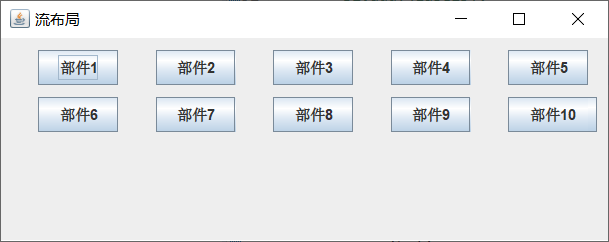
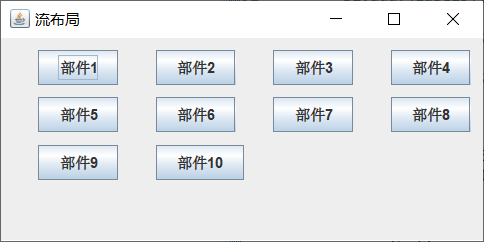
Site updated: 2019-11-03 21:28:32

diff --git a/index.html b/index.html
@@ -189,9 +189,9 @@
 </ol>
 <hr>
 <p>其中align表示每一行的对齐方式 ：align=0，表示左对齐，align=1，表示中间对齐，align=2，表示右对齐； horizGap,vertGap分别表示组件之间的水平间隔和垂直间隔。看下面例子：</p>
-<figure class="highlight plain"><table><tr><td class="gutter"><pre><span class="line">1</span><br><span class="line">2</span><br><span class="line">3</span><br><span class="line">4</span><br><span class="line">5</span><br><span class="line">6</span><br><span class="line">7</span><br><span class="line">8</span><br><span class="line">9</span><br><span class="line">10</span><br><span class="line">11</span><br><span class="line">12</span><br><span class="line">13</span><br><span class="line">14</span><br><span class="line">15</span><br><span class="line">16</span><br><span class="line">17</span><br><span class="line">18</span><br><span class="line">19</span><br><span class="line">20</span><br><span class="line">21</span><br><span class="line">22</span><br><span class="line">23</span><br><span class="line">24</span><br><span class="line">25</span><br></pre></td><td class="code"><pre><span class="line">import java.awt.*;</span><br><span class="line"></span><br><span class="line">import javax.swing.*;</span><br><span class="line"></span><br><span class="line">public class Jig extends JFrame&#123;</span><br><span class="line">	public void create(String title) &#123;</span><br><span class="line">		JFrame jf=new JFrame();</span><br><span class="line">		Container  c=jf.getContentPane();</span><br><span class="line">		JPanel p1=new JPanel();</span><br><span class="line">		for(int i=0;i&lt;10;i++) &#123;</span><br><span class="line">			p1.add(new JButton(&quot;部件&quot;+(i+1)));</span><br><span class="line">			</span><br><span class="line">		&#125;   </span><br><span class="line">		c.add(p1);</span><br><span class="line">		jf.setTitle(title);</span><br><span class="line">		p1.setLayout(new FlowLayout(0,30, 10));      //①  设置为左对齐，部件之间的水平距离30，垂直距离都为10    </span><br><span class="line">		jf.setBounds(200, 200, 500, 200);</span><br><span class="line">		jf.setVisible(true);</span><br><span class="line">		jf.setDefaultCloseOperation(WindowConstants.EXIT_ON_CLOSE);</span><br><span class="line">	&#125;</span><br><span class="line">	</span><br><span class="line">	public static void main(String[] args) &#123;</span><br><span class="line">			new Jig().create(&quot;流布局&quot;);</span><br><span class="line">	&#125;</span><br><span class="line">&#125;</span><br></pre></td></tr></table></figure>
+<figure class="highlight plain"><table><tr><td class="gutter"><pre><span class="line">1</span><br><span class="line">2</span><br><span class="line">3</span><br><span class="line">4</span><br><span class="line">5</span><br><span class="line">6</span><br><span class="line">7</span><br><span class="line">8</span><br><span class="line">9</span><br><span class="line">10</span><br><span class="line">11</span><br><span class="line">12</span><br><span class="line">13</span><br><span class="line">14</span><br><span class="line">15</span><br><span class="line">16</span><br><span class="line">17</span><br><span class="line">18</span><br><span class="line">19</span><br><span class="line">20</span><br><span class="line">21</span><br><span class="line">22</span><br><span class="line">23</span><br><span class="line">24</span><br><span class="line">25</span><br></pre></td><td class="code"><pre><span class="line">import java.awt.*;</span><br><span class="line"></span><br><span class="line">import javax.swing.*;</span><br><span class="line"></span><br><span class="line">public class Jig extends JFrame&#123;</span><br><span class="line">	public void create(String title) &#123;</span><br><span class="line">		JFrame jf=new JFrame();</span><br><span class="line">		Container  c=jf.getContentPane();</span><br><span class="line">		JPanel p1=new JPanel();</span><br><span class="line">		for(int i=0;i&lt;10;i++) &#123;</span><br><span class="line">			p1.add(new JButton(&quot;部件&quot;+(i+1)));</span><br><span class="line">			</span><br><span class="line">		&#125;   </span><br><span class="line">		c.add(p1);</span><br><span class="line">		jf.setTitle(title);</span><br><span class="line">		p1.setLayout(new FlowLayout(0,30, 10));      //①  设置为左对齐，部件之间的水平距离30，垂直距离都为10    </span><br><span class="line">		jf.setBounds(200, 200, 400, 200);</span><br><span class="line">		jf.setVisible(true);</span><br><span class="line">		jf.setDefaultCloseOperation(WindowConstants.EXIT_ON_CLOSE);</span><br><span class="line">	&#125;</span><br><span class="line">	</span><br><span class="line">	public static void main(String[] args) &#123;</span><br><span class="line">			new Jig().create(&quot;流布局&quot;);</span><br><span class="line">	&#125;</span><br><span class="line">&#125;</span><br></pre></td></tr></table></figure>
 
-<p>运行结果如下：<br><img src="/2019/11/03/java的swing布局（二）流布局/1.PNG" alt="最终界面"><br>当你随意调整页面大小时会发现，总是优先从左边开始填充<br>如果采用默认的方式 也就是说 ① 行改为<font color="green"> p1.setLayout(new FlowLayout()); </font> ,则默认以中间对齐，效果如下：<br><img src="/2019/11/03/java的swing布局（二）流布局/2.PNG" alt="最终界面"></p>
+<p>运行结果如下：<br><img src="/2019/11/03/java的swing布局（二）流布局/1.PNG" alt="最终界面"><br>当你随意调整页面大小时会发现，总是优先从左边开始填充<br>如果采用默认的方式 也就是说 ① 行改为<font color="green"> p1.setLayout(new FlowLayout()); </font> ,则默认以中间对齐，横向拉伸后效果如下：<br><img src="/2019/11/03/java的swing布局（二）流布局/2.PNG" alt="最终界面"></p>
 
       
 
@@ -255,7 +255,7 @@
     <div class="article-entry" itemprop="articleBody">
       
         <p>这几天学Java的swing编程，对关于swing的几个较为常用的布局进行讨论<br>先是第一个绝对布局，在看代码之前先要知道setbounds(x,y,width,height)的定义。在四个参数中：x,y是部件开始位置,width,height是部件的宽和高，再看代码：</p>
-<figure class="highlight plain"><table><tr><td class="gutter"><pre><span class="line">1</span><br><span class="line">2</span><br><span class="line">3</span><br><span class="line">4</span><br><span class="line">5</span><br><span class="line">6</span><br><span class="line">7</span><br><span class="line">8</span><br><span class="line">9</span><br><span class="line">10</span><br><span class="line">11</span><br><span class="line">12</span><br><span class="line">13</span><br><span class="line">14</span><br><span class="line">15</span><br><span class="line">16</span><br><span class="line">17</span><br><span class="line">18</span><br><span class="line">19</span><br><span class="line">20</span><br><span class="line">21</span><br><span class="line">22</span><br><span class="line">23</span><br><span class="line">24</span><br><span class="line">25</span><br><span class="line">26</span><br><span class="line">27</span><br><span class="line">28</span><br><span class="line">29</span><br><span class="line">30</span><br><span class="line">31</span><br><span class="line">32</span><br><span class="line">33</span><br><span class="line">34</span><br><span class="line">35</span><br><span class="line">36</span><br><span class="line">37</span><br><span class="line">38</span><br><span class="line">39</span><br><span class="line">40</span><br><span class="line">41</span><br><span class="line">42</span><br><span class="line">43</span><br><span class="line">44</span><br><span class="line">45</span><br><span class="line">46</span><br><span class="line">47</span><br><span class="line">48</span><br><span class="line">49</span><br><span class="line">50</span><br><span class="line">51</span><br><span class="line">52</span><br><span class="line">53</span><br><span class="line">54</span><br><span class="line">55</span><br><span class="line">56</span><br><span class="line">57</span><br><span class="line">58</span><br><span class="line">59</span><br><span class="line">60</span><br><span class="line">61</span><br><span class="line">62</span><br><span class="line">63</span><br><span class="line">64</span><br><span class="line">65</span><br><span class="line">66</span><br><span class="line">67</span><br><span class="line">68</span><br></pre></td><td class="code"><pre><span class="line">import java.awt.*;</span><br><span class="line"></span><br><span class="line">import javax.swing.*;</span><br><span class="line"></span><br><span class="line">public class Pig extends JFrame&#123;</span><br><span class="line">	public void create(String title) &#123;</span><br><span class="line">		JFrame jf=new JFrame();</span><br><span class="line">		Container  c=jf.getContentPane();</span><br><span class="line">		JPanel p1=new JPanel();       </span><br><span class="line">		p1.setLayout(null);                       //这里必须设置setlayout布局为null，不然会被编译器自动赋为Flowlayout(流布局),而不是绝对布局。</span><br><span class="line">		JLabel jLabel1=new JLabel(&quot;员工编号：&quot;);   </span><br><span class="line">		jLabel1.setBounds(0,0,60,40);      //横向从0开始，纵向从0开始，设置宽为60，高为40</span><br><span class="line">		</span><br><span class="line">		JTextField jT1=new JTextField();</span><br><span class="line">		jT1.setBounds(60, 0,180,40);		//横向跟着第一个的后面(60),纵向还是从0开始，设置宽为180，高为40</span><br><span class="line">		</span><br><span class="line">		JLabel jLabel2=new JLabel(&quot;借用器具：&quot;);</span><br><span class="line">		jLabel2.setBounds(260,0,60,40);</span><br><span class="line">		</span><br><span class="line">		JTextField jT2=new JTextField();</span><br><span class="line">		jT2.setBounds(320, 0,180,40);</span><br><span class="line">		</span><br><span class="line">		JLabel jLabel3=new JLabel(&quot;借用日期：&quot;);     </span><br><span class="line">		jLabel3.setBounds(0,40,60,40);    //横向从0开始，纵向从40开始（第二行，因为第一行高度是40），设置宽为60，高为40</span><br><span class="line">		</span><br><span class="line">		JTextField jT3=new JTextField();</span><br><span class="line">		jT3.setBounds(60, 40,180,40);</span><br><span class="line">		</span><br><span class="line">		JLabel jLabel4=new JLabel(&quot;归还日期：&quot;);</span><br><span class="line">		jLabel4.setBounds(260,40,60,40);</span><br><span class="line">		</span><br><span class="line">		JTextField jT4=new JTextField();</span><br><span class="line">		jT4.setBounds(320, 40,180,40);</span><br><span class="line"></span><br><span class="line">		JLabel jLabel5=new JLabel(&quot;借用原因:&quot;);</span><br><span class="line">		jLabel5.setBounds(0,80,60,40);</span><br><span class="line"></span><br><span class="line">		JTextField jT5=new JTextField();</span><br><span class="line">		jT5.setBounds(60, 80,440,40);</span><br><span class="line"></span><br><span class="line">		JButton jb1=new JButton(&quot;确定&quot;);     </span><br><span class="line">		jb1.setBounds(0,120,250,40);        //横向从0开始，纵向从120开始（第四行，因为每一行高度是40），设置宽为250，高为40</span><br><span class="line">		</span><br><span class="line">		JButton jb2=new JButton(&quot;取消&quot;); </span><br><span class="line">		jb2.setBounds(250,120,250,40);</span><br><span class="line">		</span><br><span class="line">		p1.add(jLabel1);</span><br><span class="line">		p1.add(jT1);</span><br><span class="line">		p1.add(jLabel2);</span><br><span class="line">		p1.add(jT2);</span><br><span class="line">		p1.add(jLabel3);</span><br><span class="line">		p1.add(jT3);</span><br><span class="line">		p1.add(jLabel4);</span><br><span class="line">		p1.add(jT4);</span><br><span class="line">		p1.add(jLabel5);</span><br><span class="line">		p1.add(jT5);  </span><br><span class="line">		p1.add(jb1);</span><br><span class="line">		p1.add(jb2);   </span><br><span class="line">		c.add(p1);</span><br><span class="line">		jf.setTitle(title);</span><br><span class="line">		jf.setBounds(200, 200, 500, 200);</span><br><span class="line">		jf.setVisible(true);</span><br><span class="line">		jf.setDefaultCloseOperation(WindowConstants.EXIT_ON_CLOSE);</span><br><span class="line">	&#125;</span><br><span class="line">	public static void main(String[] args) &#123;</span><br><span class="line">			new Pig().create(&quot;绝对布局&quot;);</span><br><span class="line">	&#125;</span><br><span class="line">&#125;</span><br></pre></td></tr></table></figure>
+<figure class="highlight plain"><table><tr><td class="gutter"><pre><span class="line">1</span><br><span class="line">2</span><br><span class="line">3</span><br><span class="line">4</span><br><span class="line">5</span><br><span class="line">6</span><br><span class="line">7</span><br><span class="line">8</span><br><span class="line">9</span><br><span class="line">10</span><br><span class="line">11</span><br><span class="line">12</span><br><span class="line">13</span><br><span class="line">14</span><br><span class="line">15</span><br><span class="line">16</span><br><span class="line">17</span><br><span class="line">18</span><br><span class="line">19</span><br><span class="line">20</span><br><span class="line">21</span><br><span class="line">22</span><br><span class="line">23</span><br><span class="line">24</span><br><span class="line">25</span><br><span class="line">26</span><br><span class="line">27</span><br><span class="line">28</span><br><span class="line">29</span><br><span class="line">30</span><br><span class="line">31</span><br><span class="line">32</span><br><span class="line">33</span><br><span class="line">34</span><br><span class="line">35</span><br><span class="line">36</span><br><span class="line">37</span><br><span class="line">38</span><br><span class="line">39</span><br><span class="line">40</span><br><span class="line">41</span><br><span class="line">42</span><br><span class="line">43</span><br><span class="line">44</span><br><span class="line">45</span><br><span class="line">46</span><br><span class="line">47</span><br><span class="line">48</span><br><span class="line">49</span><br><span class="line">50</span><br><span class="line">51</span><br><span class="line">52</span><br><span class="line">53</span><br><span class="line">54</span><br><span class="line">55</span><br><span class="line">56</span><br><span class="line">57</span><br><span class="line">58</span><br><span class="line">59</span><br><span class="line">60</span><br><span class="line">61</span><br><span class="line">62</span><br><span class="line">63</span><br><span class="line">64</span><br><span class="line">65</span><br><span class="line">66</span><br><span class="line">67</span><br><span class="line">68</span><br></pre></td><td class="code"><pre><span class="line">import java.awt.*;</span><br><span class="line"></span><br><span class="line">import javax.swing.*;</span><br><span class="line"></span><br><span class="line">public class Jig extends JFrame&#123;</span><br><span class="line">	public void create(String title) &#123;</span><br><span class="line">		JFrame jf=new JFrame();</span><br><span class="line">		Container  c=jf.getContentPane();</span><br><span class="line">		JPanel p1=new JPanel();       </span><br><span class="line">		p1.setLayout(null);                       //这里必须设置setlayout布局为null，不然会被编译器自动赋为Flowlayout(流布局),而不是绝对布局。</span><br><span class="line">		JLabel jLabel1=new JLabel(&quot;员工编号：&quot;);   </span><br><span class="line">		jLabel1.setBounds(0,0,60,40);      //横向从0开始，纵向从0开始，设置宽为60，高为40</span><br><span class="line">		</span><br><span class="line">		JTextField jT1=new JTextField();</span><br><span class="line">		jT1.setBounds(60, 0,180,40);		//横向跟着第一个的后面(60),纵向还是从0开始，设置宽为180，高为40</span><br><span class="line">		</span><br><span class="line">		JLabel jLabel2=new JLabel(&quot;借用器具：&quot;);</span><br><span class="line">		jLabel2.setBounds(260,0,60,40);</span><br><span class="line">		</span><br><span class="line">		JTextField jT2=new JTextField();</span><br><span class="line">		jT2.setBounds(320, 0,180,40);</span><br><span class="line">		</span><br><span class="line">		JLabel jLabel3=new JLabel(&quot;借用日期：&quot;);     </span><br><span class="line">		jLabel3.setBounds(0,40,60,40);    //横向从0开始，纵向从40开始（第二行，因为第一行高度是40），设置宽为60，高为40</span><br><span class="line">		</span><br><span class="line">		JTextField jT3=new JTextField();</span><br><span class="line">		jT3.setBounds(60, 40,180,40);</span><br><span class="line">		</span><br><span class="line">		JLabel jLabel4=new JLabel(&quot;归还日期：&quot;);</span><br><span class="line">		jLabel4.setBounds(260,40,60,40);</span><br><span class="line">		</span><br><span class="line">		JTextField jT4=new JTextField();</span><br><span class="line">		jT4.setBounds(320, 40,180,40);</span><br><span class="line"></span><br><span class="line">		JLabel jLabel5=new JLabel(&quot;借用原因:&quot;);</span><br><span class="line">		jLabel5.setBounds(0,80,60,40);</span><br><span class="line"></span><br><span class="line">		JTextField jT5=new JTextField();</span><br><span class="line">		jT5.setBounds(60, 80,440,40);</span><br><span class="line"></span><br><span class="line">		JButton jb1=new JButton(&quot;确定&quot;);     </span><br><span class="line">		jb1.setBounds(0,120,250,40);        //横向从0开始，纵向从120开始（第四行，因为每一行高度是40），设置宽为250，高为40</span><br><span class="line">		</span><br><span class="line">		JButton jb2=new JButton(&quot;取消&quot;); </span><br><span class="line">		jb2.setBounds(250,120,250,40);</span><br><span class="line">		</span><br><span class="line">		p1.add(jLabel1);</span><br><span class="line">		p1.add(jT1);</span><br><span class="line">		p1.add(jLabel2);</span><br><span class="line">		p1.add(jT2);</span><br><span class="line">		p1.add(jLabel3);</span><br><span class="line">		p1.add(jT3);</span><br><span class="line">		p1.add(jLabel4);</span><br><span class="line">		p1.add(jT4);</span><br><span class="line">		p1.add(jLabel5);</span><br><span class="line">		p1.add(jT5);  </span><br><span class="line">		p1.add(jb1);</span><br><span class="line">		p1.add(jb2);   </span><br><span class="line">		c.add(p1);</span><br><span class="line">		jf.setTitle(title);</span><br><span class="line">		jf.setBounds(200, 200, 500, 200);</span><br><span class="line">		jf.setVisible(true);</span><br><span class="line">		jf.setDefaultCloseOperation(WindowConstants.EXIT_ON_CLOSE);</span><br><span class="line">	&#125;</span><br><span class="line">	public static void main(String[] args) &#123;</span><br><span class="line">			new Jig().create(&quot;绝对布局&quot;);</span><br><span class="line">	&#125;</span><br><span class="line">&#125;</span><br></pre></td></tr></table></figure>
 
 <p>运行结果如下：<br><img src="/2019/10/29/java的swing布局（一）绝对布局/1.PNG" alt="最终界面"><br>绝对布局是最简单的，只要知道部件的setbounds(x,y,width,height)，一切就显得很简单，</p>
 

diff --git a/2019/10/29/java的swing布局（一）绝对布局/index.html b/2019/10/29/java的swing布局（一）绝对布局/index.html
@@ -16,7 +16,7 @@
 <meta property="og:description" content="这几天学Java的swing编程，对关于swing的几个较为常用的布局进行讨论先是第一个绝对布局，在看代码之前先要知道setbounds(x,y,width,height)的定义。在四个参数中：x,y是部件开始位置,width,height是部件的宽和高，再看代码： 123456789101112131415161718192021222324252627282930313233343536373">
 <meta property="og:locale" content="default">
 <meta property="og:image" content="http://yoursite.com/2019/10/29/java的swing布局（一）绝对布局/1.PNG">
-<meta property="og:updated_time" content="2019-11-03T12:13:44.902Z">
+<meta property="og:updated_time" content="2019-11-03T13:24:26.199Z">
 <meta name="twitter:card" content="summary">
 <meta name="twitter:title" content="java的swing布局（一）绝对布局 ">
 <meta name="twitter:description" content="这几天学Java的swing编程，对关于swing的几个较为常用的布局进行讨论先是第一个绝对布局，在看代码之前先要知道setbounds(x,y,width,height)的定义。在四个参数中：x,y是部件开始位置,width,height是部件的宽和高，再看代码： 123456789101112131415161718192021222324252627282930313233343536373">
@@ -187,7 +187,7 @@
     <div class="article-entry" itemprop="articleBody">
       
         <p>这几天学Java的swing编程，对关于swing的几个较为常用的布局进行讨论<br>先是第一个绝对布局，在看代码之前先要知道setbounds(x,y,width,height)的定义。在四个参数中：x,y是部件开始位置,width,height是部件的宽和高，再看代码：</p>
-<figure class="highlight plain"><table><tr><td class="gutter"><pre><span class="line">1</span><br><span class="line">2</span><br><span class="line">3</span><br><span class="line">4</span><br><span class="line">5</span><br><span class="line">6</span><br><span class="line">7</span><br><span class="line">8</span><br><span class="line">9</span><br><span class="line">10</span><br><span class="line">11</span><br><span class="line">12</span><br><span class="line">13</span><br><span class="line">14</span><br><span class="line">15</span><br><span class="line">16</span><br><span class="line">17</span><br><span class="line">18</span><br><span class="line">19</span><br><span class="line">20</span><br><span class="line">21</span><br><span class="line">22</span><br><span class="line">23</span><br><span class="line">24</span><br><span class="line">25</span><br><span class="line">26</span><br><span class="line">27</span><br><span class="line">28</span><br><span class="line">29</span><br><span class="line">30</span><br><span class="line">31</span><br><span class="line">32</span><br><span class="line">33</span><br><span class="line">34</span><br><span class="line">35</span><br><span class="line">36</span><br><span class="line">37</span><br><span class="line">38</span><br><span class="line">39</span><br><span class="line">40</span><br><span class="line">41</span><br><span class="line">42</span><br><span class="line">43</span><br><span class="line">44</span><br><span class="line">45</span><br><span class="line">46</span><br><span class="line">47</span><br><span class="line">48</span><br><span class="line">49</span><br><span class="line">50</span><br><span class="line">51</span><br><span class="line">52</span><br><span class="line">53</span><br><span class="line">54</span><br><span class="line">55</span><br><span class="line">56</span><br><span class="line">57</span><br><span class="line">58</span><br><span class="line">59</span><br><span class="line">60</span><br><span class="line">61</span><br><span class="line">62</span><br><span class="line">63</span><br><span class="line">64</span><br><span class="line">65</span><br><span class="line">66</span><br><span class="line">67</span><br><span class="line">68</span><br></pre></td><td class="code"><pre><span class="line">import java.awt.*;</span><br><span class="line"></span><br><span class="line">import javax.swing.*;</span><br><span class="line"></span><br><span class="line">public class Pig extends JFrame&#123;</span><br><span class="line">	public void create(String title) &#123;</span><br><span class="line">		JFrame jf=new JFrame();</span><br><span class="line">		Container  c=jf.getContentPane();</span><br><span class="line">		JPanel p1=new JPanel();       </span><br><span class="line">		p1.setLayout(null);                       //这里必须设置setlayout布局为null，不然会被编译器自动赋为Flowlayout(流布局),而不是绝对布局。</span><br><span class="line">		JLabel jLabel1=new JLabel(&quot;员工编号：&quot;);   </span><br><span class="line">		jLabel1.setBounds(0,0,60,40);      //横向从0开始，纵向从0开始，设置宽为60，高为40</span><br><span class="line">		</span><br><span class="line">		JTextField jT1=new JTextField();</span><br><span class="line">		jT1.setBounds(60, 0,180,40);		//横向跟着第一个的后面(60),纵向还是从0开始，设置宽为180，高为40</span><br><span class="line">		</span><br><span class="line">		JLabel jLabel2=new JLabel(&quot;借用器具：&quot;);</span><br><span class="line">		jLabel2.setBounds(260,0,60,40);</span><br><span class="line">		</span><br><span class="line">		JTextField jT2=new JTextField();</span><br><span class="line">		jT2.setBounds(320, 0,180,40);</span><br><span class="line">		</span><br><span class="line">		JLabel jLabel3=new JLabel(&quot;借用日期：&quot;);     </span><br><span class="line">		jLabel3.setBounds(0,40,60,40);    //横向从0开始，纵向从40开始（第二行，因为第一行高度是40），设置宽为60，高为40</span><br><span class="line">		</span><br><span class="line">		JTextField jT3=new JTextField();</span><br><span class="line">		jT3.setBounds(60, 40,180,40);</span><br><span class="line">		</span><br><span class="line">		JLabel jLabel4=new JLabel(&quot;归还日期：&quot;);</span><br><span class="line">		jLabel4.setBounds(260,40,60,40);</span><br><span class="line">		</span><br><span class="line">		JTextField jT4=new JTextField();</span><br><span class="line">		jT4.setBounds(320, 40,180,40);</span><br><span class="line"></span><br><span class="line">		JLabel jLabel5=new JLabel(&quot;借用原因:&quot;);</span><br><span class="line">		jLabel5.setBounds(0,80,60,40);</span><br><span class="line"></span><br><span class="line">		JTextField jT5=new JTextField();</span><br><span class="line">		jT5.setBounds(60, 80,440,40);</span><br><span class="line"></span><br><span class="line">		JButton jb1=new JButton(&quot;确定&quot;);     </span><br><span class="line">		jb1.setBounds(0,120,250,40);        //横向从0开始，纵向从120开始（第四行，因为每一行高度是40），设置宽为250，高为40</span><br><span class="line">		</span><br><span class="line">		JButton jb2=new JButton(&quot;取消&quot;); </span><br><span class="line">		jb2.setBounds(250,120,250,40);</span><br><span class="line">		</span><br><span class="line">		p1.add(jLabel1);</span><br><span class="line">		p1.add(jT1);</span><br><span class="line">		p1.add(jLabel2);</span><br><span class="line">		p1.add(jT2);</span><br><span class="line">		p1.add(jLabel3);</span><br><span class="line">		p1.add(jT3);</span><br><span class="line">		p1.add(jLabel4);</span><br><span class="line">		p1.add(jT4);</span><br><span class="line">		p1.add(jLabel5);</span><br><span class="line">		p1.add(jT5);  </span><br><span class="line">		p1.add(jb1);</span><br><span class="line">		p1.add(jb2);   </span><br><span class="line">		c.add(p1);</span><br><span class="line">		jf.setTitle(title);</span><br><span class="line">		jf.setBounds(200, 200, 500, 200);</span><br><span class="line">		jf.setVisible(true);</span><br><span class="line">		jf.setDefaultCloseOperation(WindowConstants.EXIT_ON_CLOSE);</span><br><span class="line">	&#125;</span><br><span class="line">	public static void main(String[] args) &#123;</span><br><span class="line">			new Pig().create(&quot;绝对布局&quot;);</span><br><span class="line">	&#125;</span><br><span class="line">&#125;</span><br></pre></td></tr></table></figure>
+<figure class="highlight plain"><table><tr><td class="gutter"><pre><span class="line">1</span><br><span class="line">2</span><br><span class="line">3</span><br><span class="line">4</span><br><span class="line">5</span><br><span class="line">6</span><br><span class="line">7</span><br><span class="line">8</span><br><span class="line">9</span><br><span class="line">10</span><br><span class="line">11</span><br><span class="line">12</span><br><span class="line">13</span><br><span class="line">14</span><br><span class="line">15</span><br><span class="line">16</span><br><span class="line">17</span><br><span class="line">18</span><br><span class="line">19</span><br><span class="line">20</span><br><span class="line">21</span><br><span class="line">22</span><br><span class="line">23</span><br><span class="line">24</span><br><span class="line">25</span><br><span class="line">26</span><br><span class="line">27</span><br><span class="line">28</span><br><span class="line">29</span><br><span class="line">30</span><br><span class="line">31</span><br><span class="line">32</span><br><span class="line">33</span><br><span class="line">34</span><br><span class="line">35</span><br><span class="line">36</span><br><span class="line">37</span><br><span class="line">38</span><br><span class="line">39</span><br><span class="line">40</span><br><span class="line">41</span><br><span class="line">42</span><br><span class="line">43</span><br><span class="line">44</span><br><span class="line">45</span><br><span class="line">46</span><br><span class="line">47</span><br><span class="line">48</span><br><span class="line">49</span><br><span class="line">50</span><br><span class="line">51</span><br><span class="line">52</span><br><span class="line">53</span><br><span class="line">54</span><br><span class="line">55</span><br><span class="line">56</span><br><span class="line">57</span><br><span class="line">58</span><br><span class="line">59</span><br><span class="line">60</span><br><span class="line">61</span><br><span class="line">62</span><br><span class="line">63</span><br><span class="line">64</span><br><span class="line">65</span><br><span class="line">66</span><br><span class="line">67</span><br><span class="line">68</span><br></pre></td><td class="code"><pre><span class="line">import java.awt.*;</span><br><span class="line"></span><br><span class="line">import javax.swing.*;</span><br><span class="line"></span><br><span class="line">public class Jig extends JFrame&#123;</span><br><span class="line">	public void create(String title) &#123;</span><br><span class="line">		JFrame jf=new JFrame();</span><br><span class="line">		Container  c=jf.getContentPane();</span><br><span class="line">		JPanel p1=new JPanel();       </span><br><span class="line">		p1.setLayout(null);                       //这里必须设置setlayout布局为null，不然会被编译器自动赋为Flowlayout(流布局),而不是绝对布局。</span><br><span class="line">		JLabel jLabel1=new JLabel(&quot;员工编号：&quot;);   </span><br><span class="line">		jLabel1.setBounds(0,0,60,40);      //横向从0开始，纵向从0开始，设置宽为60，高为40</span><br><span class="line">		</span><br><span class="line">		JTextField jT1=new JTextField();</span><br><span class="line">		jT1.setBounds(60, 0,180,40);		//横向跟着第一个的后面(60),纵向还是从0开始，设置宽为180，高为40</span><br><span class="line">		</span><br><span class="line">		JLabel jLabel2=new JLabel(&quot;借用器具：&quot;);</span><br><span class="line">		jLabel2.setBounds(260,0,60,40);</span><br><span class="line">		</span><br><span class="line">		JTextField jT2=new JTextField();</span><br><span class="line">		jT2.setBounds(320, 0,180,40);</span><br><span class="line">		</span><br><span class="line">		JLabel jLabel3=new JLabel(&quot;借用日期：&quot;);     </span><br><span class="line">		jLabel3.setBounds(0,40,60,40);    //横向从0开始，纵向从40开始（第二行，因为第一行高度是40），设置宽为60，高为40</span><br><span class="line">		</span><br><span class="line">		JTextField jT3=new JTextField();</span><br><span class="line">		jT3.setBounds(60, 40,180,40);</span><br><span class="line">		</span><br><span class="line">		JLabel jLabel4=new JLabel(&quot;归还日期：&quot;);</span><br><span class="line">		jLabel4.setBounds(260,40,60,40);</span><br><span class="line">		</span><br><span class="line">		JTextField jT4=new JTextField();</span><br><span class="line">		jT4.setBounds(320, 40,180,40);</span><br><span class="line"></span><br><span class="line">		JLabel jLabel5=new JLabel(&quot;借用原因:&quot;);</span><br><span class="line">		jLabel5.setBounds(0,80,60,40);</span><br><span class="line"></span><br><span class="line">		JTextField jT5=new JTextField();</span><br><span class="line">		jT5.setBounds(60, 80,440,40);</span><br><span class="line"></span><br><span class="line">		JButton jb1=new JButton(&quot;确定&quot;);     </span><br><span class="line">		jb1.setBounds(0,120,250,40);        //横向从0开始，纵向从120开始（第四行，因为每一行高度是40），设置宽为250，高为40</span><br><span class="line">		</span><br><span class="line">		JButton jb2=new JButton(&quot;取消&quot;); </span><br><span class="line">		jb2.setBounds(250,120,250,40);</span><br><span class="line">		</span><br><span class="line">		p1.add(jLabel1);</span><br><span class="line">		p1.add(jT1);</span><br><span class="line">		p1.add(jLabel2);</span><br><span class="line">		p1.add(jT2);</span><br><span class="line">		p1.add(jLabel3);</span><br><span class="line">		p1.add(jT3);</span><br><span class="line">		p1.add(jLabel4);</span><br><span class="line">		p1.add(jT4);</span><br><span class="line">		p1.add(jLabel5);</span><br><span class="line">		p1.add(jT5);  </span><br><span class="line">		p1.add(jb1);</span><br><span class="line">		p1.add(jb2);   </span><br><span class="line">		c.add(p1);</span><br><span class="line">		jf.setTitle(title);</span><br><span class="line">		jf.setBounds(200, 200, 500, 200);</span><br><span class="line">		jf.setVisible(true);</span><br><span class="line">		jf.setDefaultCloseOperation(WindowConstants.EXIT_ON_CLOSE);</span><br><span class="line">	&#125;</span><br><span class="line">	public static void main(String[] args) &#123;</span><br><span class="line">			new Jig().create(&quot;绝对布局&quot;);</span><br><span class="line">	&#125;</span><br><span class="line">&#125;</span><br></pre></td></tr></table></figure>
 
 <p>运行结果如下：<br><img src="/2019/10/29/java的swing布局（一）绝对布局/1.PNG" alt="最终界面"><br>绝对布局是最简单的，只要知道部件的setbounds(x,y,width,height)，一切就显得很简单，</p>
 

diff --git a/2019/11/03/java的swing布局（二）流布局/index.html b/2019/11/03/java的swing布局（二）流布局/index.html
@@ -17,7 +17,7 @@
 <meta property="og:locale" content="default">
 <meta property="og:image" content="http://yoursite.com/2019/11/03/java的swing布局（二）流布局/1.PNG">
 <meta property="og:image" content="http://yoursite.com/2019/11/03/java的swing布局（二）流布局/2.PNG">
-<meta property="og:updated_time" content="2019-11-03T13:23:28.483Z">
+<meta property="og:updated_time" content="2019-11-03T13:28:19.378Z">
 <meta name="twitter:card" content="summary">
 <meta name="twitter:title" content="java的swing布局（二）流布局">
 <meta name="twitter:description" content="流(Flowlayout)布局管理器是最基本的布局管理器，像“流”一样，从左到右知道占满这一行，然后再移动向下一行，常用的用法如下： public Flowlayout() public Flowlayout(int  align) public Flowlayout(int  align,int horizGap,int vertGap)    其中align表示每一行的对齐方式 ：align=">
@@ -194,9 +194,9 @@
 </ol>
 <hr>
 <p>其中align表示每一行的对齐方式 ：align=0，表示左对齐，align=1，表示中间对齐，align=2，表示右对齐； horizGap,vertGap分别表示组件之间的水平间隔和垂直间隔。看下面例子：</p>
-<figure class="highlight plain"><table><tr><td class="gutter"><pre><span class="line">1</span><br><span class="line">2</span><br><span class="line">3</span><br><span class="line">4</span><br><span class="line">5</span><br><span class="line">6</span><br><span class="line">7</span><br><span class="line">8</span><br><span class="line">9</span><br><span class="line">10</span><br><span class="line">11</span><br><span class="line">12</span><br><span class="line">13</span><br><span class="line">14</span><br><span class="line">15</span><br><span class="line">16</span><br><span class="line">17</span><br><span class="line">18</span><br><span class="line">19</span><br><span class="line">20</span><br><span class="line">21</span><br><span class="line">22</span><br><span class="line">23</span><br><span class="line">24</span><br><span class="line">25</span><br></pre></td><td class="code"><pre><span class="line">import java.awt.*;</span><br><span class="line"></span><br><span class="line">import javax.swing.*;</span><br><span class="line"></span><br><span class="line">public class Jig extends JFrame&#123;</span><br><span class="line">	public void create(String title) &#123;</span><br><span class="line">		JFrame jf=new JFrame();</span><br><span class="line">		Container  c=jf.getContentPane();</span><br><span class="line">		JPanel p1=new JPanel();</span><br><span class="line">		for(int i=0;i&lt;10;i++) &#123;</span><br><span class="line">			p1.add(new JButton(&quot;部件&quot;+(i+1)));</span><br><span class="line">			</span><br><span class="line">		&#125;   </span><br><span class="line">		c.add(p1);</span><br><span class="line">		jf.setTitle(title);</span><br><span class="line">		p1.setLayout(new FlowLayout(0,30, 10));      //①  设置为左对齐，部件之间的水平距离30，垂直距离都为10    </span><br><span class="line">		jf.setBounds(200, 200, 500, 200);</span><br><span class="line">		jf.setVisible(true);</span><br><span class="line">		jf.setDefaultCloseOperation(WindowConstants.EXIT_ON_CLOSE);</span><br><span class="line">	&#125;</span><br><span class="line">	</span><br><span class="line">	public static void main(String[] args) &#123;</span><br><span class="line">			new Jig().create(&quot;流布局&quot;);</span><br><span class="line">	&#125;</span><br><span class="line">&#125;</span><br></pre></td></tr></table></figure>
+<figure class="highlight plain"><table><tr><td class="gutter"><pre><span class="line">1</span><br><span class="line">2</span><br><span class="line">3</span><br><span class="line">4</span><br><span class="line">5</span><br><span class="line">6</span><br><span class="line">7</span><br><span class="line">8</span><br><span class="line">9</span><br><span class="line">10</span><br><span class="line">11</span><br><span class="line">12</span><br><span class="line">13</span><br><span class="line">14</span><br><span class="line">15</span><br><span class="line">16</span><br><span class="line">17</span><br><span class="line">18</span><br><span class="line">19</span><br><span class="line">20</span><br><span class="line">21</span><br><span class="line">22</span><br><span class="line">23</span><br><span class="line">24</span><br><span class="line">25</span><br></pre></td><td class="code"><pre><span class="line">import java.awt.*;</span><br><span class="line"></span><br><span class="line">import javax.swing.*;</span><br><span class="line"></span><br><span class="line">public class Jig extends JFrame&#123;</span><br><span class="line">	public void create(String title) &#123;</span><br><span class="line">		JFrame jf=new JFrame();</span><br><span class="line">		Container  c=jf.getContentPane();</span><br><span class="line">		JPanel p1=new JPanel();</span><br><span class="line">		for(int i=0;i&lt;10;i++) &#123;</span><br><span class="line">			p1.add(new JButton(&quot;部件&quot;+(i+1)));</span><br><span class="line">			</span><br><span class="line">		&#125;   </span><br><span class="line">		c.add(p1);</span><br><span class="line">		jf.setTitle(title);</span><br><span class="line">		p1.setLayout(new FlowLayout(0,30, 10));      //①  设置为左对齐，部件之间的水平距离30，垂直距离都为10    </span><br><span class="line">		jf.setBounds(200, 200, 400, 200);</span><br><span class="line">		jf.setVisible(true);</span><br><span class="line">		jf.setDefaultCloseOperation(WindowConstants.EXIT_ON_CLOSE);</span><br><span class="line">	&#125;</span><br><span class="line">	</span><br><span class="line">	public static void main(String[] args) &#123;</span><br><span class="line">			new Jig().create(&quot;流布局&quot;);</span><br><span class="line">	&#125;</span><br><span class="line">&#125;</span><br></pre></td></tr></table></figure>
 
-<p>运行结果如下：<br><img src="/2019/11/03/java的swing布局（二）流布局/1.PNG" alt="最终界面"><br>当你随意调整页面大小时会发现，总是优先从左边开始填充<br>如果采用默认的方式 也就是说 ① 行改为<font color="green"> p1.setLayout(new FlowLayout()); </font> ,则默认以中间对齐，效果如下：<br><img src="/2019/11/03/java的swing布局（二）流布局/2.PNG" alt="最终界面"></p>
+<p>运行结果如下：<br><img src="/2019/11/03/java的swing布局（二）流布局/1.PNG" alt="最终界面"><br>当你随意调整页面大小时会发现，总是优先从左边开始填充<br>如果采用默认的方式 也就是说 ① 行改为<font color="green"> p1.setLayout(new FlowLayout()); </font> ,则默认以中间对齐，横向拉伸后效果如下：<br><img src="/2019/11/03/java的swing布局（二）流布局/2.PNG" alt="最终界面"></p>
 
       
 
